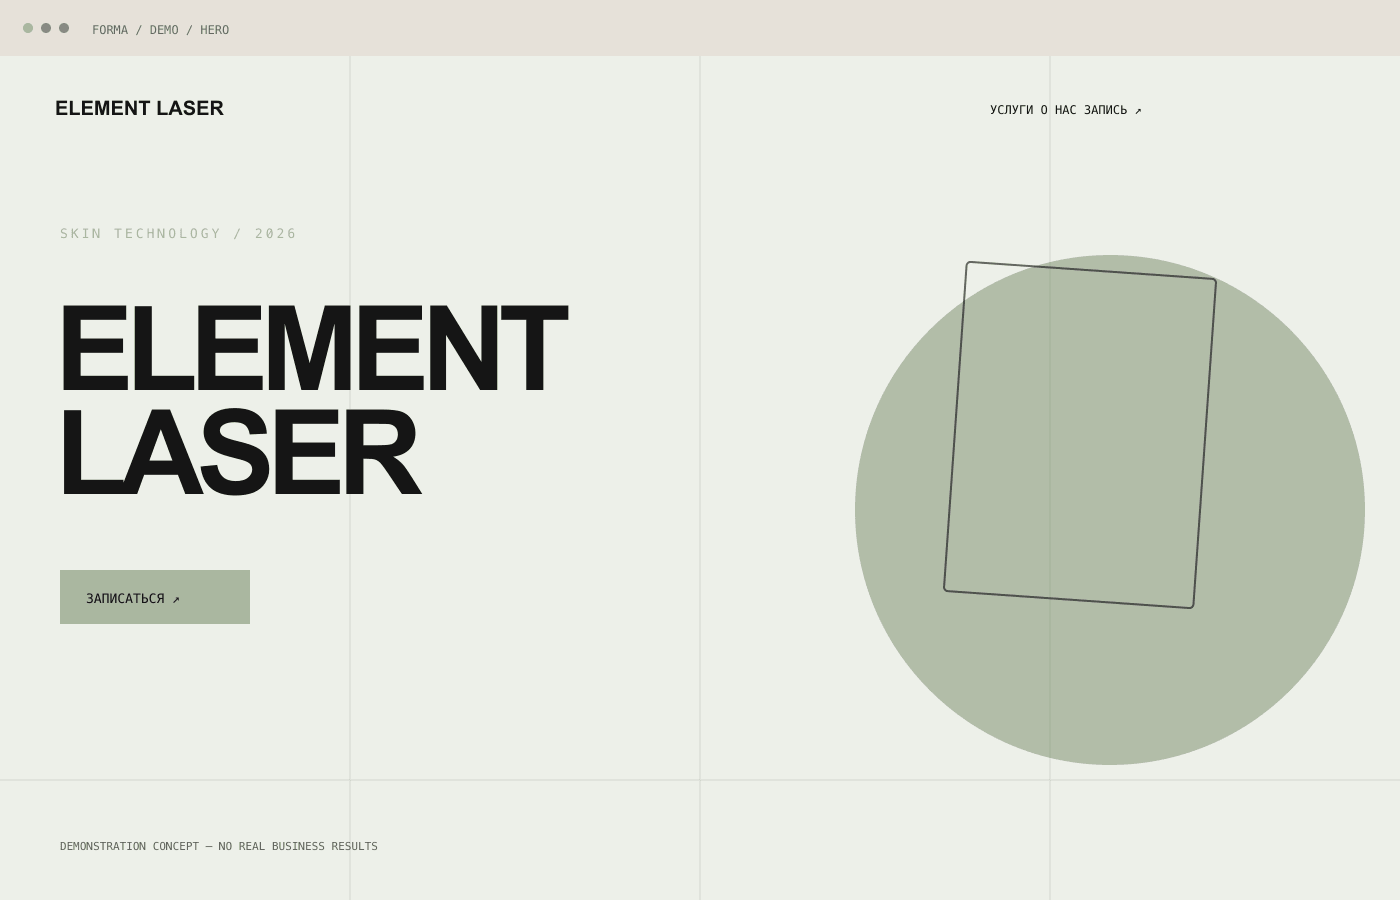
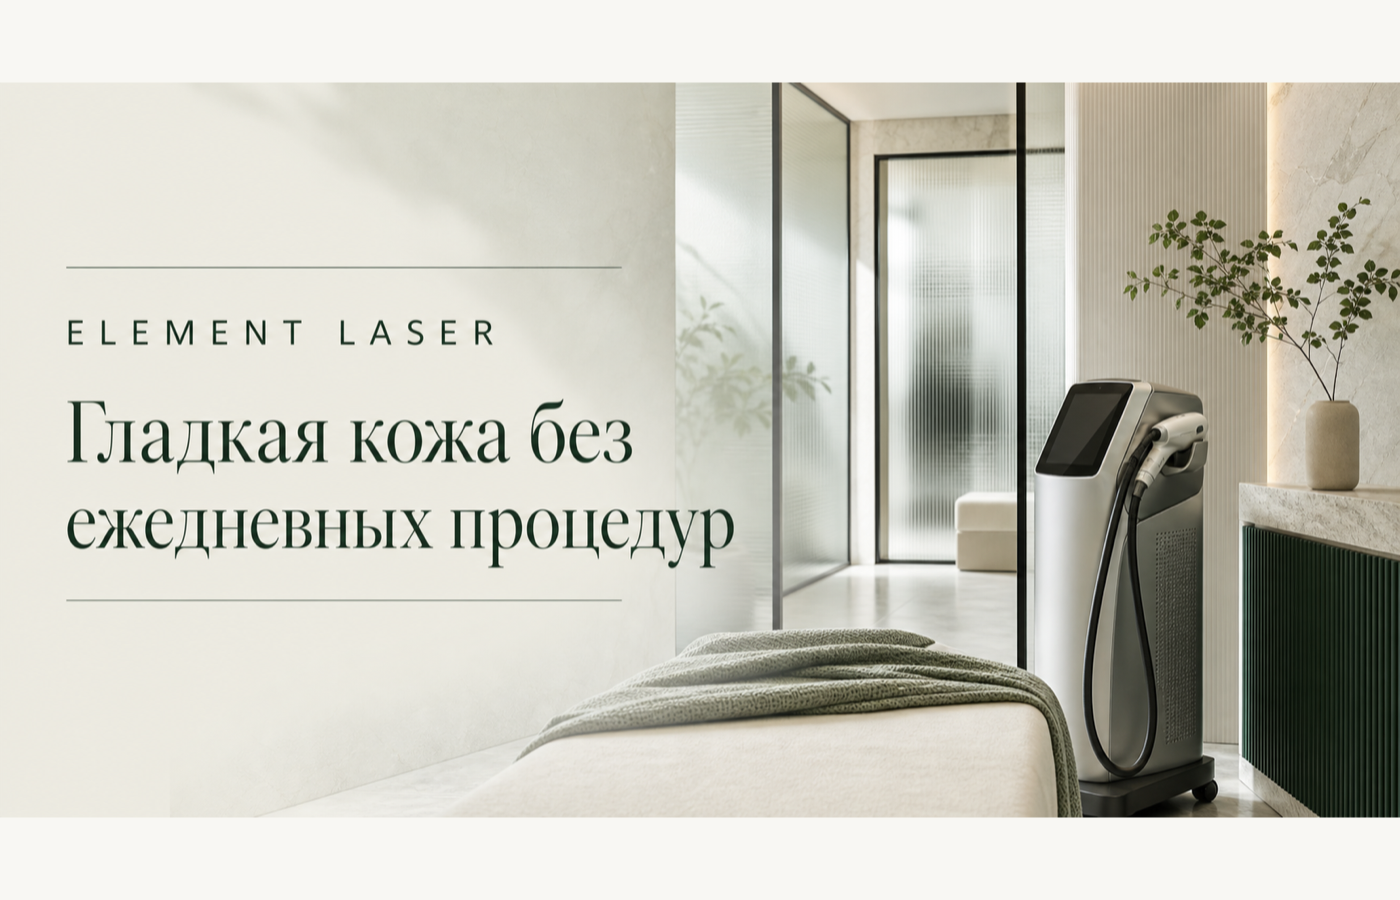
Refresh Element Laser visuals

diff --git a/src/data/projects.ts b/src/data/projects.ts
@@ -59,7 +59,7 @@ export const projects: Project[] = [
     year: 2026,
     description:
       "Чистая система, которая спокойно объясняет процедуры и ведёт к первому визиту.",
-    accentColor: "#AAB7A0",
+    accentColor: "#173D31",
     services: ["Процедуры", "Подготовка", "FAQ", "Запись"],
     heroImage: "/images/work/element-laser/hero.png",
     gallery: [

diff --git a/src/components/common/BrowserMockup.tsx b/src/components/common/BrowserMockup.tsx
@@ -11,9 +11,9 @@ const slides = [
   },
   {
     name: "ELEMENT LASER",
-    note: "SKIN / TECHNOLOGY",
-    color: "#AAB7A0",
-    title: "ТОЧНОСТЬ\nИ ЗАБОТА",
+    note: "DIODE / PERSONAL CARE",
+    color: "#173D31",
+    title: "ГЛАДКАЯ КОЖА\nБЕЗ РУТИНЫ",
   },
   {
     name: "BORODA 63",
